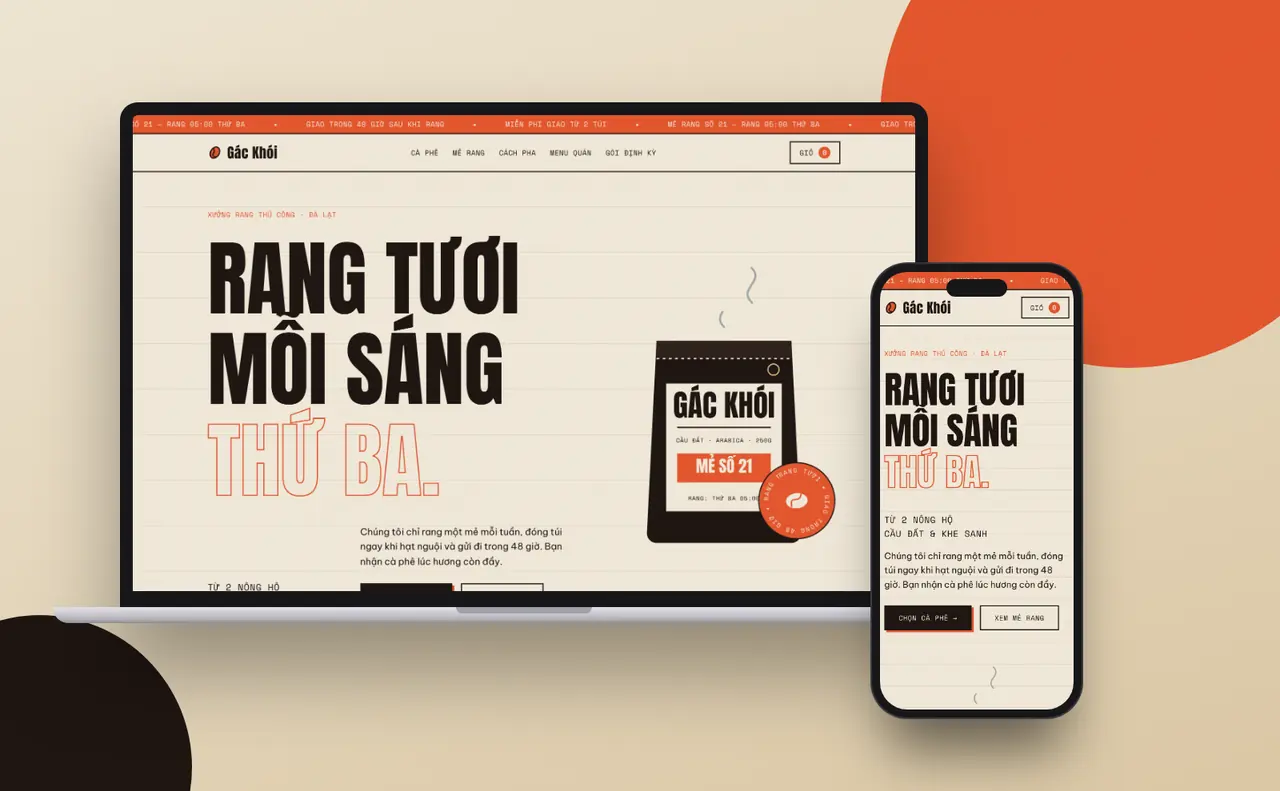
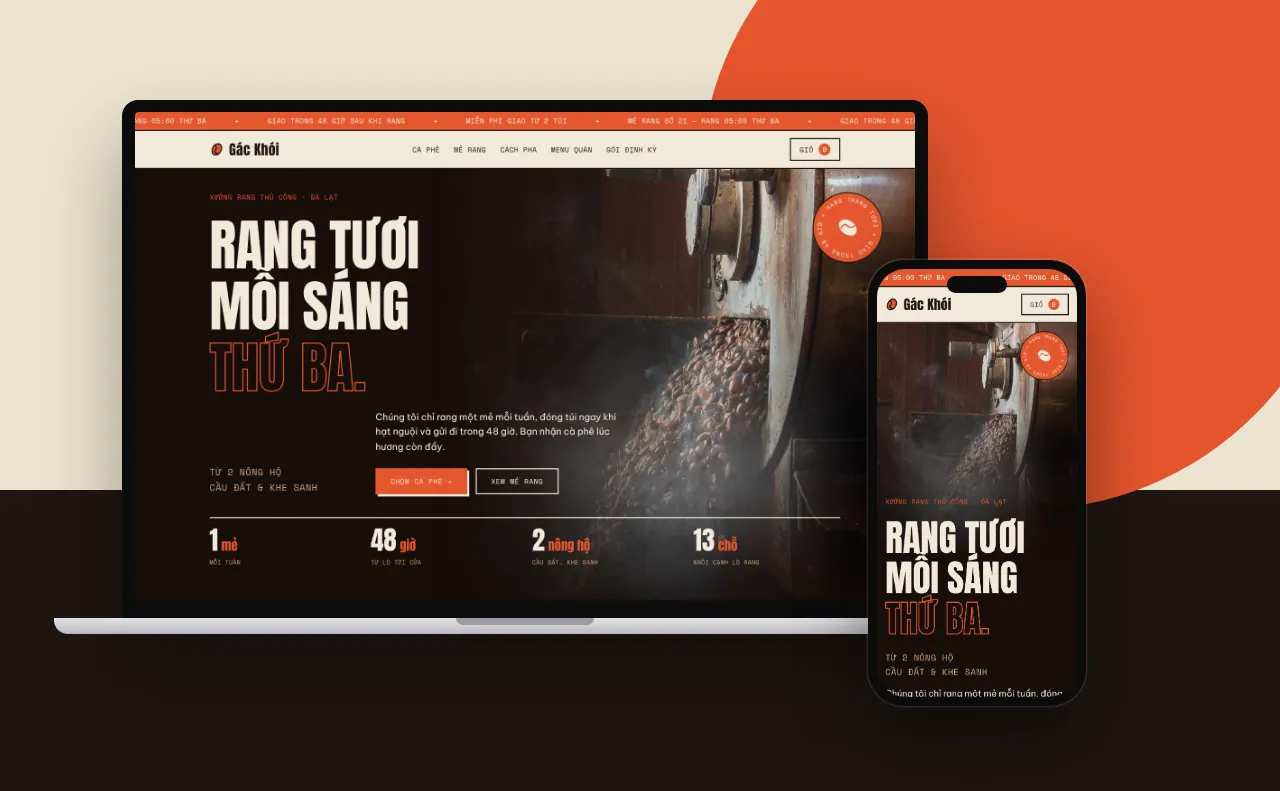
Demo Gác Khói: ảnh xưởng rang thật, hero khói, cảnh ghim một mẻ rang với đường cong nhiệt, lookbook quanh lò
Claude-Session: https://claude.ai/code/session_012QLWn7rvRysGvRwdv6upwG

diff --git a/demos/gac-khoi.html b/demos/gac-khoi.html
@@ -48,27 +48,43 @@ nav{display:flex;gap:26px}nav a{position:relative;padding:10px 0}nav a::after{co
 .back{position:fixed;left:16px;bottom:16px;z-index:40;background:var(--paper);border:2px solid var(--ink);padding:0 16px;min-height:42px;display:flex;align-items:center;gap:8px;box-shadow:3px 3px 0 var(--ink)}
 @media(max-width:860px){nav{display:none}}
 /* hero */
-.hero{padding:var(--s6) 0 var(--s5);position:relative;overflow:hidden}
-.hero .g{display:grid;grid-template-columns:1.618fr 1fr;gap:var(--s5);align-items:center}
-.hero h1{font-size:clamp(72px,10.6vw,152px);letter-spacing:-.005em;line-height:1;white-space:nowrap}
+.hero{position:relative;overflow:hidden;background:#170E0B;color:var(--paper);min-height:calc(100svh - 104px);display:flex;flex-direction:column;justify-content:flex-end;border-bottom:2px solid var(--kraft)}
+.hp{position:absolute;inset:0 0 0 38%;overflow:hidden}
+.hpi{position:absolute;inset:-6% -3%}
+.hpi img{width:100%;height:100%;object-fit:cover;object-position:50% 58%}
+.hp::after{content:"";position:absolute;inset:0;background:linear-gradient(90deg,#170E0B 0,rgba(23,14,11,.72) 22%,rgba(23,14,11,0) 58%),linear-gradient(0deg,rgba(23,14,11,.86) 0,rgba(23,14,11,0) 34%)}
+.sk{position:absolute;left:18%;bottom:-30%;width:64%;height:80%;background:radial-gradient(closest-side,rgba(226,232,233,.3),rgba(226,232,233,.1) 55%,transparent);opacity:0;pointer-events:none}
+.sk:nth-of-type(2){left:38%;width:52%;animation-delay:-4.6s;animation-duration:17s}.sk:nth-of-type(3){left:2%;width:58%;animation-delay:-9s;animation-duration:21s}
+.mo .sk{animation:smk 13s linear infinite;will-change:transform,opacity}
+.mo .hpi img{animation:kb 26s ease-in-out infinite alternate}
+.pz .sk,.pz .hpi img{animation-play-state:paused}
+@keyframes smk{0%{transform:translate3d(6%,24%,0) scale(.7);opacity:0}25%{opacity:1}to{transform:translate3d(-10%,-110%,0) scale(1.6);opacity:0}}
+@keyframes kb{from{transform:scale(1.02)}to{transform:scale(1.12) translateY(-2%)}}
+.hc{position:relative;z-index:2;padding-top:var(--s5)}
+.hero h1{font-size:clamp(72px,min(10.6vw,11.4svh),152px);letter-spacing:-.005em;line-height:1;white-space:nowrap}
 .hero h1 span{display:block;overflow:hidden;padding-top:.2em;margin-top:-.1em}
 .hero h1 i{display:block;font-style:normal;animation:up var(--d5) var(--ease) both}
 .hero h1 span:nth-child(2) i{animation-delay:.1s}.hero h1 span:nth-child(3) i{animation-delay:.2s;color:transparent;-webkit-text-stroke:2px var(--ember)}
 @keyframes up{from{transform:translateY(105%)}}
-.hero .sub{display:grid;grid-template-columns:1fr 1.618fr;gap:var(--s4);margin-top:var(--s5);align-items:end;max-width:760px}
-.hero .sub p{font-size:17px}
+.hero .sub{display:grid;grid-template-columns:1fr 1.618fr;gap:var(--s4);margin-top:var(--s4);align-items:end;max-width:760px}
+.hero .sub p{font-size:17px}.hero .sub .m{color:var(--kraft)}
 .cta{display:flex;flex-wrap:wrap;gap:16px;margin-top:var(--s4)}
-.bagbox{position:relative;justify-self:center;width:min(100%,380px)}
-.smoke path{fill:none;stroke:var(--smoke);stroke-width:3;stroke-linecap:round;stroke-dasharray:60 240;animation:sm 4.24s linear infinite;opacity:.7}
-.smoke path:nth-child(2){animation-delay:-1.6s;stroke-dasharray:40 260}.smoke path:nth-child(3){animation-delay:-2.6s}
-@keyframes sm{from{stroke-dashoffset:300}to{stroke-dashoffset:0}}
-.stamp{position:absolute;right:-16px;bottom:26px;width:144px;height:144px;animation:rot 16.18s linear infinite}
+.hero .btn{background:var(--ember);border-color:var(--ember);box-shadow:4px 4px 0 var(--paper)}.hero .btn:hover{box-shadow:6px 6px 0 var(--paper)}
+.hero .btn.o{background:transparent;border-color:var(--paper);color:var(--paper);box-shadow:none}.hero .btn.o:hover{background:var(--paper);color:var(--ink)}
+.hst{display:grid;grid-template-columns:repeat(4,1fr);gap:var(--s4);margin-top:var(--s5);position:relative;padding:16px 0 64px}.emb .hst{padding-bottom:20px}
+.hst::before{content:"";position:absolute;inset:0 0 auto;height:2px;background:var(--paper);transform-origin:left}
+.js .hst::before{transform:scaleX(0);transition:transform 1.6s var(--ease) .3s}.js .hst.in::before{transform:none}
+.hst b{display:block;font-family:var(--fd);font-weight:400;font-size:clamp(33px,3.4vw,48px);line-height:1.1}.hst b small{font-size:.5em;margin-left:6px;color:var(--ember)}
+.hst .m{font-size:11px;color:var(--kraft)}
+.stamp{position:absolute;z-index:2;right:max(16px,4vw);top:var(--s5);width:132px;height:132px;animation:rot 16.18s linear infinite}
 .stamp text{font-family:var(--fm);font-size:11.5px;letter-spacing:.14em;fill:var(--paper)}
 @keyframes rot{to{transform:rotate(360deg)}}
+@media(max-width:860px){.hero{display:block}.hp{position:relative;inset:auto;height:54svh}.hpi img{object-position:50% 62%}
+ .hp::after{background:linear-gradient(0deg,#170E0B 0,rgba(23,14,11,.55) 30%,rgba(23,14,11,0) 62%)}
+ .hc{margin-top:-118px;padding-top:0}.hero .sub{grid-template-columns:1fr;gap:var(--s3)}.hst{grid-template-columns:1fr 1fr;gap:16px 26px}.stamp{width:96px;height:96px;top:16px}}
 .orig{border-block:2px solid var(--ink);overflow:hidden;white-space:nowrap;background:var(--ink);color:var(--paper)}
 .orig div{display:inline-block;font-family:var(--fd);font-size:clamp(33px,5vw,68px);text-transform:uppercase;padding:10px 0;animation:mq 42s linear infinite reverse}
 .orig span{margin:0 26px}.orig span:nth-child(even){color:transparent;-webkit-text-stroke:1.5px var(--kraft)}
-@media(max-width:860px){.hero{padding-top:var(--s5)}.hero .g{grid-template-columns:1fr}.hero .sub{grid-template-columns:1fr;gap:var(--s3)}.bagbox{width:68%;margin-top:var(--s4)}.stamp{width:110px;height:110px;right:-26px}}
 /* tiêu đề mục */
 .sec{padding:var(--s7) 0}
 .sh{display:grid;grid-template-columns:1.618fr 1fr;gap:var(--s5);align-items:end;margin-bottom:var(--s6)}
@@ -144,6 +160,59 @@ nav{display:flex;gap:26px}nav a{position:relative;padding:10px 0}nav a::after{co
 .fld:focus{outline:3px solid var(--ember);outline-offset:2px}
 .msg{font-size:13px;margin-top:10px;min-height:1.6em}
 @media(max-width:860px){.sub2{grid-template-columns:1fr}.sub2 .r{border-left:0;border-top:2px solid var(--ink)}.sub2>*{padding:var(--s4)}}
+/* một mẻ rang */
+.bat{background:var(--ink);color:var(--paper);scroll-margin-top:70px}
+.bs{position:relative;padding:var(--s6) max(16px,4vw) var(--s4)}
+.bh{display:flex;justify-content:space-between;gap:16px;color:var(--kraft);margin-bottom:var(--s4)}
+.st{display:grid;grid-template-columns:1.2fr 1fr;gap:var(--s5);align-items:center;margin-bottom:var(--s5)}
+.st figure{margin:0;position:relative;overflow:hidden;aspect-ratio:4/3;border:2px solid var(--paper)}
+.st img{width:100%;height:100%;object-fit:cover}
+.sx .m{color:var(--kraft);margin-bottom:10px}
+.k{display:block;font-family:var(--fd);font-weight:400;font-size:clamp(56px,min(8.4vw,15svh),128px);line-height:1.08;text-transform:uppercase;color:var(--ember);white-space:nowrap}.k i{display:block;font-style:normal}
+.st h3{font-size:clamp(24px,2.6vw,42px);margin:16px 0 10px}
+.sx p:last-child{color:rgba(241,233,218,.8);max-width:44ch}
+.cvw{position:relative;max-width:560px;margin-left:auto;color:rgba(241,233,218,.24)}
+.cvw svg{display:block;width:100%;height:auto;overflow:visible}
+.cvl{position:absolute;inset:0;color:var(--ember)}
+.cvw text{font-family:var(--fm);font-size:13px;letter-spacing:.06em;fill:var(--paper)}
+.cvw line{stroke:rgba(241,233,218,.3);stroke-dasharray:3 6}
+.cvd{display:none;position:absolute;left:-7px;top:-7px;width:14px;height:14px;border-radius:50%;background:var(--paper);border:3px solid var(--ember)}
+.mo .bat{height:calc(340svh - 70px)}
+.mo .bs{position:sticky;top:70px;height:calc(100svh - 70px);padding:0;overflow:hidden}
+.mo .bh,.mo .sx,.mo .cvw{position:absolute;left:calc(56% + var(--s5));right:max(16px,4vw);margin:0}
+.mo .bh{top:var(--s4);z-index:3}
+.mo .st{position:absolute;inset:0;margin:0;display:block}
+.mo .st figure{position:absolute;inset:0 44% 0 0;aspect-ratio:auto;border:0;border-right:2px solid var(--paper);will-change:clip-path}
+.mo .st img{will-change:transform}
+.mo .sx{top:46%;transform:translateY(-58%)}
+.mo .sx>*{opacity:0;transform:translateY(22px);transition:opacity .4s var(--ease),transform .7s var(--ease)}
+.mo .on .sx>*{opacity:1;transform:none;transition-delay:.18s}.mo .on .sx>h3{transition-delay:.26s}.mo .on .sx>p:last-child{transition-delay:.34s}
+.mo .sx>.k{opacity:1;transform:none;overflow:hidden;padding-top:.2em;margin-top:-.2em}.mo .k i{transform:translateY(130%);transition:transform .8s var(--ease)}.mo .on .k i{transform:none;transition-delay:.14s}
+.mo .cvw{bottom:var(--s4);max-width:none;z-index:4}.mo .cvw svg{height:clamp(84px,22svh,190px)}.mo .cvl{clip-path:inset(0 100% 0 0);will-change:clip-path}.mo .cvd{display:block}
+.mo .cvw line~g{opacity:.3;transition:opacity var(--d3)}.mo .cvw g.on{opacity:1}
+@media(max-width:860px){.st{grid-template-columns:1fr;gap:var(--s3)}
+ .mo .st figure{inset:0 0 60% 0;border-right:0;border-bottom:2px solid var(--paper)}
+ .mo .bh,.mo .sx,.mo .cvw{left:16px;right:16px}.mo .bh{top:calc(40% + 14px)}.mo .sx{top:calc(40% + 48px);transform:none}
+ .mo .st h3{margin:10px 0 6px}.mo .sx p:last-child{font-size:15px;line-height:1.5}
+ .mo .cvw{bottom:68px}.emb.mo .cvw{bottom:20px}.mo .cvw svg{height:60px}.mo .cvw text,.mo .cvw line{display:none}}
+@media(max-width:860px) and (max-height:700px){.mo .sx h3{display:none}}
+/* một vòng quanh lò */
+.lb{overflow:hidden}
+.lt{display:flex;gap:26px;align-items:flex-start;overflow-x:auto;padding:10px max(16px,4vw) 26px;scrollbar-width:none;-webkit-user-select:none;user-select:none}
+.lt::-webkit-scrollbar{display:none}.lt::after{content:"";flex:0 0 1px}
+.lc{flex:0 0 clamp(250px,27vw,380px);margin:0}.lc:nth-child(even){margin-top:42px}.lc.wd{flex-basis:clamp(300px,44vw,640px)}
+.mo .lc{transform:skewX(var(--sk,0deg))}
+.li{position:relative;height:clamp(340px,56vh,520px);overflow:hidden;border:2px solid var(--ink);background:var(--ink);box-shadow:6px 6px 0 var(--ink);transition:transform var(--d4) var(--ease)}
+.li img{width:116%;max-width:none;height:100%;object-fit:cover;margin-left:-8%;pointer-events:none}
+.li::after{content:"";position:absolute;inset:0;background:var(--ink);opacity:.3;transition:opacity var(--d4) var(--ease)}
+.lc:hover .li::after,.lc:active .li::after{opacity:0}.lc:hover .li{transform:translate(-3px,-3px)}.lc:active .li{transform:scale(.985)}
+.lc figcaption{display:flex;gap:10px;margin-top:16px;text-transform:none;letter-spacing:.02em}.lc figcaption b{color:var(--ember);font-weight:400}
+.lp{height:2px;background:var(--line);margin-top:10px}.lp i{display:block;height:100%;background:var(--ember);transform-origin:left;transform:scaleX(.08)}
+.lcur{position:fixed;left:-42px;top:-42px;z-index:30;width:84px;height:84px;pointer-events:none}
+.lcur span{display:grid;place-items:center;width:100%;height:100%;border-radius:50%;background:var(--ember);color:var(--paper);border:2px solid var(--ink);transform:scale(0);transition:transform var(--d3) var(--ease)}.lcur.on span{transform:none}.lcur.dg span{transform:scale(.7)}
+@media(hover:hover) and (pointer:fine){.mo .lt{cursor:grab}.mo .lt.dg{cursor:grabbing}}
+@media(hover:none){.lt{scroll-snap-type:x mandatory;gap:16px}.lc{scroll-snap-align:center;flex-basis:74vw}.lc.wd{flex-basis:86vw}.lc:nth-child(even){margin-top:26px}.li{height:min(100vw,54svh)}.lcur{display:none}}
+@supports selector(:has(a)){.js .sh .m::before{transform:scaleX(0);transform-origin:left;transition:transform var(--d5) var(--ease) .25s}.js .sh:has(.in) .m::before{transform:none}}
 footer{padding:var(--s6) 0 var(--s7)}
 .fg{display:grid;grid-template-columns:1.618fr 1fr 1fr;gap:var(--s5)}
 .fg .big{font-family:var(--fd);font-size:clamp(68px,12vw,178px);line-height:1.1;text-transform:uppercase}
@@ -153,7 +222,7 @@ footer{padding:var(--s6) 0 var(--s7)}
 .toast{position:fixed;right:16px;bottom:16px;z-index:50;background:var(--ink);color:var(--paper);padding:16px 26px;border:2px solid var(--paper);transform:translateY(180%);visibility:hidden;transition:transform var(--d3) var(--ease),visibility 0s var(--d3)}
 .toast.on{transform:none;visibility:visible;transition-delay:0s}
 .emb .back{display:none}
-@media(prefers-reduced-motion:reduce){*,*::before,*::after{animation:none!important;transition-duration:.01ms!important}.js [data-r]{opacity:1;transform:none}}
+@media(prefers-reduced-motion:reduce){*,*::before,*::after{animation:none!important;transition-duration:.01ms!important}.js [data-r]{opacity:1;transform:none}.js .hst::before,.js .sh .m::before{transform:none}}
 </style>
 </head>
 <body>
@@ -165,39 +234,39 @@ footer{padding:var(--s6) 0 var(--s7)}
 </div></header>
 
 <main id="top">
-<section class="hero"><div class="w"><div class="g">
- <div>
+<section class="hero" id="hero">
+ <div class="hp"><div class="hpi"><img src="../img/photo/ca-phe-31890552.webp" width="1600" height="2400" alt="Hạt cà phê vừa rang đổ ra khỏi lồng rang giữa làn khói mỏng" fetchpriority="high" decoding="async"></div><i class="sk"></i><i class="sk"></i><i class="sk"></i></div>
+ <svg class="stamp" viewBox="0 0 144 144" aria-hidden="true"><circle cx="72" cy="72" r="70" fill="#E4572E" stroke="#1F1612" stroke-width="2"/><path id="cp" d="M72 72m-52 0a52 52 0 1 1 104 0a52 52 0 1 1-104 0" fill="none"/><text><textPath href="#cp">RANG TƯƠI ✦ GIAO TRONG 48 GIỜ ✦ RANG TƯƠI ✦ ĐÓNG TÚI TAY ✦</textPath></text><ellipse cx="72" cy="72" rx="14" ry="20" transform="rotate(30 72 72)" fill="#F1E9DA"/><path d="M66 58c8 6 5 12 2 16s-2 8 8 12" fill="none" stroke="#E4572E" stroke-width="2.5"/></svg>
+ <div class="w hc">
   <p class="m" style="margin-bottom:16px;color:var(--ember)">Xưởng rang thủ công · Đà Lạt</p>
   <h1><span><i>Rang tươi</i></span><span><i>mỗi sáng</i></span><span><i>thứ Ba.</i></span></h1>
   <div class="sub">
    <p class="m">Từ 2 nông hộ<br>Cầu Đất &amp; Khe Sanh</p>
    <div><p>Chúng tôi chỉ rang một mẻ mỗi tuần, đóng túi ngay khi hạt nguội và gửi đi trong 48 giờ. Bạn nhận cà phê lúc hương còn đầy.</p>
-   <div class="cta"><a class="btn" href="#ca-phe">Chọn cà phê →</a><a class="btn o" href="#me-rang">Xem mẻ rang</a></div></div>
+   <div class="cta"><a class="btn" href="#ca-phe">Chọn cà phê →</a><a class="btn o" href="#me">Xem mẻ rang</a></div></div>
   </div>
+  <div class="hst" data-r><div><b><span data-n="1">1</span><small>mẻ</small></b><span class="m">Mỗi tuần</span></div><div><b><span data-n="48">48</span><small>giờ</small></b><span class="m">Từ lò tới cửa</span></div><div><b><span data-n="2">2</span><small>nông hộ</small></b><span class="m">Cầu Đất, Khe Sanh</span></div><div><b><span data-n="13">13</span><small>chỗ</small></b><span class="m">Ngồi cạnh lò rang</span></div></div>
  </div>
- <div class="bagbox">
-  <svg viewBox="0 0 300 420" aria-label="Túi cà phê Gác Khói">
-   <g class="smoke"><path d="M110 70c-20-20 20-30 0-50s20-30 0-50" transform="translate(0 30)"/><path d="M150 70c-20-20 20-30 0-50s20-30 0-50" transform="translate(0 20)"/><path d="M190 70c-20-20 20-30 0-50s20-30 0-50" transform="translate(0 34)"/></g>
-   <path d="M52 110h196l14 280a14 14 0 0 1-14 14H52a14 14 0 0 1-14-14z" fill="#1F1612"/>
-   <path d="M52 110h196v26H52z" fill="#2e221c"/><path d="M52 136h196" stroke="#F1E9DA" stroke-width="2" stroke-dasharray="4 5"/>
-   <rect x="66" y="172" width="168" height="186" fill="#F1E9DA"/>
-   <text x="150" y="222" text-anchor="middle" font-family="Anton,Impact" font-size="44" fill="#1F1612">GÁC KHÓI</text>
-   <path d="M82 236h136" stroke="#1F1612" stroke-width="2"/>
-   <text x="150" y="258" text-anchor="middle" font-family="Space Mono,monospace" font-size="8.5" letter-spacing=".6" fill="#1F1612">CẦU ĐẤT · ARABICA · 250G</text>
-   <rect x="82" y="274" width="136" height="42" fill="#E4572E"/>
-   <text x="150" y="302" text-anchor="middle" font-family="Anton,Impact" font-size="24" fill="#F1E9DA">MẺ SỐ 21</text>
-   <text x="150" y="342" text-anchor="middle" font-family="Space Mono,monospace" font-size="8.5" letter-spacing=".6" fill="#1F1612">RANG: THỨ BA 05:00</text>
-   <circle cx="222" cy="152" r="8" fill="none" stroke="#C9A27A" stroke-width="2"/>
-  </svg>
-  <svg class="stamp" viewBox="0 0 144 144" aria-hidden="true"><circle cx="72" cy="72" r="70" fill="#E4572E" stroke="#1F1612" stroke-width="2"/><path id="cp" d="M72 72m-52 0a52 52 0 1 1 104 0a52 52 0 1 1-104 0" fill="none"/><text><textPath href="#cp">RANG TƯƠI ✦ GIAO TRONG 48 GIỜ ✦ RANG TƯƠI ✦ ĐÓNG TÚI TAY ✦</textPath></text><ellipse cx="72" cy="72" rx="14" ry="20" transform="rotate(30 72 72)" fill="#F1E9DA"/><path d="M66 58c8 6 5 12 2 16s-2 8 8 12" fill="none" stroke="#E4572E" stroke-width="2.5"/></svg>
- </div>
-</div></div></section>
+</section>
 
 <div class="orig" aria-hidden="true"><div><span>Cầu Đất</span><span>Khe Sanh</span><span>Đắk Mil</span><span>Sơn La</span><span>Cầu Đất</span><span>Khe Sanh</span><span>Đắk Mil</span><span>Sơn La</span><span>Cầu Đất</span><span>Khe Sanh</span><span>Đắk Mil</span><span>Sơn La</span><span>Cầu Đất</span><span>Khe Sanh</span><span>Đắk Mil</span><span>Sơn La</span></div></div>
 
 <section class="sec" id="ca-phe"><div class="w">
  <div class="sh"><div><p class="m">Mẻ rang tuần này</p><h2 data-r>Bốn túi.<br><em>Không hơn.</em></h2></div><p data-r>Ít lựa chọn để mỗi túi đều được nếm thử, chỉnh lửa và rang lại cho tới khi đúng vị. Giá cho túi 250g, xay theo cách pha của bạn.</p></div>
  <div class="grid" id="grid"></div>
+</div></section>
+
+<section class="bat" id="me" aria-label="Một mẻ rang"><div class="bs">
+  <div class="bh m"><span>Một mẻ rang · sáng thứ Ba</span><span><b id="bn" style="color:var(--paper)">01</b> / 04</span></div>
+  <article class="st on"><figure><img src="../img/photo/ca-phe-6280317.webp" width="1100" height="1670" alt="Phễu đầy hạt cà phê nhân xanh phía trên lò rang, người thợ cúi xuống khay hạt" loading="lazy" decoding="async"></figure><div class="sx"><p class="m">01 · Nạp hạt</p><b class="k"><i>05:00</i></b><h3>Lò nóng từ lúc trời còn sương</h3><p>Hạt nhân xanh từ hai nông hộ Cầu Đất và Khe Sanh được cân rồi đổ vào lồng rang. Mỗi tuần chỉ một mẻ.</p></div></article>
+  <article class="st"><figure><img src="../img/photo/ca-phe-31890546.webp" width="1100" height="1650" alt="Cận cảnh đồng hồ nhiệt trên thân lò rang bằng thép đã ngả màu" loading="lazy" decoding="async"></figure><div class="sx"><p class="m">02 · Giữ lửa</p><b class="k"><i>Nổ lần 1</i></b><h3>Nghe hạt, nhìn kim nhiệt</h3><p>Nhiệt độ được ghi lại từng giây. Tiếng nổ đầu tiên báo hạt bắt đầu chín, từ đây người rang quyết định xả sớm hay kéo dài thêm.</p></div></article>
+  <article class="st"><figure><img src="../img/photo/ca-phe-31890551.webp" width="1100" height="1650" alt="Hạt cà phê đổ từ lồng rang xuống khay trong làn khói trắng dày" loading="lazy" decoding="async"><i class="sk"></i></figure><div class="sx"><p class="m">03 · Xả lò</p><b class="k"><i>226°C</i></b><h3>Mở cửa lò đúng giây</h3><p>Rang sáng xả ở 205°C sau 9 phút 20. Rang đậm đi tới 226°C, gần tiếng nổ thứ hai. Cửa lò mở, hạt đổ ra cùng làn khói.</p></div></article>
+  <article class="st"><figure><img src="../img/photo/ca-phe-37540260.webp" width="1100" height="1650" alt="Hạt cà phê vừa rang được cánh gạt đảo đều trên khay làm nguội" loading="lazy" decoding="async"></figure><div class="sx"><p class="m">04 · Làm nguội</p><b class="k"><i>48 giờ</i></b><h3>Nguội là đóng túi</h3><p>Hạt được đảo đều trên khay cho nguội nhanh, đóng túi ngay và gửi đi trong 48 giờ. Bạn nhận cà phê lúc hương còn đầy.</p></div></article>
+  <div class="cvw" aria-hidden="true">
+   <svg viewBox="0 0 520 190"><g id="hcv" fill="none" stroke="currentColor" stroke-width="3" stroke-linecap="round"><path vector-effect="non-scaling-stroke" d="M12 84C40 160,72 172,112 152S222 96,300 74S400 44,440 34"/><path vector-effect="non-scaling-stroke" d="M440 34C468 60,490 110,508 150" stroke-dasharray="2 8"/></g><line x1="300" y1="14" x2="300" y2="176"/>
+    <g><text x="12" y="62">NẠP HẠT</text></g><g><text x="308" y="26">NỔ LẦN 1</text></g><g><text x="424" y="18">XẢ</text></g><g><text x="444" y="178">NGUỘI</text></g></svg>
+   <svg class="cvl" viewBox="0 0 520 190"><use href="#hcv"/></svg><i class="cvd"></i>
+  </div>
 </div></section>
 
 <section class="sec roast" id="me-rang"><div class="w">
@@ -235,6 +304,20 @@ footer{padding:var(--s6) 0 var(--s7)}
   </div>
  </div>
 </div></section>
+
+<section class="sec lb" id="xuong"><div class="w">
+ <div class="sh"><div><p class="m">Trong xưởng</p><h2 data-r>Một vòng<br><em>quanh lò.</em></h2></div><p data-r>Gác nhỏ, một chiếc lò, vài chiếc khay và mùi khói bám trên áo. Kéo ngang để dạo một vòng.</p></div>
+</div>
+ <div class="lt" id="lt" tabindex="0" role="group" aria-label="Ảnh trong xưởng rang, cuộn ngang để xem">
+  <figure class="lc"><div class="li"><img src="../img/photo/ca-phe-22679455.webp" width="760" height="1138" alt="Hai bàn tay nâng một nắm hạt cà phê vừa rang phía trên khay nguội" loading="lazy" decoding="async" draggable="false"></div><figcaption class="m"><b>01</b>Nâng hạt lên xem màu</figcaption></figure>
+  <figure class="lc wd"><div class="li"><img src="../img/photo/ca-phe-6079719.webp" width="900" height="578" alt="Hạt cà phê rang nằm trên khay làm nguội bằng thép sáng" loading="lazy" decoding="async" draggable="false"></div><figcaption class="m"><b>02</b>Khay nguội quay đều</figcaption></figure>
+  <figure class="lc"><div class="li"><img src="../img/photo/ca-phe-31890545.webp" width="760" height="1140" alt="Lồng rang nhìn từ trên xuống, hạt cà phê đổ đầy khay bên dưới" loading="lazy" decoding="async" draggable="false"></div><figcaption class="m"><b>03</b>Lồng rang nhìn từ trên</figcaption></figure>
+  <figure class="lc"><div class="li"><img src="../img/photo/ca-phe-35283349.webp" width="760" height="1014" alt="Bàn tay cầm nắm hạt cà phê rang cạnh muỗng lấy mẫu" loading="lazy" decoding="async" draggable="false"></div><figcaption class="m"><b>04</b>Thử từng nắm hạt</figcaption></figure>
+  <figure class="lc"><div class="li"><img src="../img/photo/ca-phe-6280315.webp" width="760" height="1140" alt="Bàn tay rút que lấy mẫu trên lò rang trong ánh sáng tối" loading="lazy" decoding="async" draggable="false"></div><figcaption class="m"><b>05</b>Rút mẫu giữa mẻ</figcaption></figure>
+ </div>
+ <div class="w"><div class="lp"><i id="lpi"></i></div></div>
+ <div class="lcur m" aria-hidden="true"><span>Kéo</span></div>
+</section>
 
 <section class="sec menu" id="menu"><div class="w">
  <div class="sh"><div><p class="m">Uống tại gác</p><h2 data-r>Menu<br><em>quán nhỏ.</em></h2></div><p data-r>Quán chỉ có 13 chỗ ngồi cạnh lò rang. Mở cửa 7:00–17:00, nghỉ thứ Hai.</p></div>
@@ -277,7 +360,7 @@ footer{padding:var(--s6) 0 var(--s7)}
   <div><h4>Ghé xưởng</h4><p>Gác 2, số 13 Dốc Sương<br>Đà Lạt, Lâm Đồng<br>7:00–17:00 · nghỉ thứ Hai</p></div>
   <div><h4>Liên hệ</h4><p>hello@gackhoi.example<br>0900 000 000</p></div>
  </div>
- <div class="cpt"><span>Gác Khói là thương hiệu concept. Website mẫu do <a href="../index.html" target="_top" style="text-decoration:underline">Dream Labs</a> thiết kế, mọi thông tin chỉ để minh họa.</span><span class="m">© 2026</span></div>
+ <div class="cpt"><span>Gác Khói là thương hiệu concept. Website mẫu do <a href="../index.html" target="_top" style="text-decoration:underline">Dream Labs</a> thiết kế, mọi thông tin chỉ để minh họa, ảnh chụp lấy từ thư viện Pexels để minh họa không khí.</span><span class="m">© 2026</span></div>
 </div></footer>
 <a class="back m" href="../index.html">← Dream Labs</a>
 <div class="toast m" id="toast" role="status"></div>
@@ -315,6 +398,41 @@ $('#sf').addEventListener('submit',e=>{e.preventDefault();const ok=$$('.fld').ev
 /* reveal */
 const els=$$('[data-r]');
 if('IntersectionObserver' in window){const io=new IntersectionObserver(es=>es.forEach(e=>{if(e.isIntersecting){e.target.classList.add('in');io.unobserve(e.target);if(e.target.classList.contains('chart'))setR(0)}}),{threshold:.12,rootMargin:'0px 0px -6% 0px'});els.forEach(el=>io.observe(el))}else{els.forEach(el=>el.classList.add('in'));setR(0)}
+/* chuyển động */
+const H=document.documentElement,mo=!matchMedia('(prefers-reduced-motion:reduce)').matches,cl=(v,a=0,b=1)=>v<a?a:v>b?b:v,eo=t=>1-(1-t)**4;
+if(mo&&'IntersectionObserver' in window){H.classList.add('mo');
+ const hero=$('#hero'),hpi=$('.hpi'),bat=$('#me'),bs=$('.bs'),sts=$$('.st'),figs=sts.map(e=>$('figure',e)),ims=sts.map(e=>$('img',e)),cvw=$('.cvw'),cvl=$('.cvl'),dot=$('.cvd'),mks=$$('.cvw line~g'),pts=[];
+ let vh=1,vb=0,raf=0,sy=scrollY,mx=0,my=0,tx=0,ty=0,p=-1,act=-1,tot=1,cs=1,cz=1,cx=0,cy=0,cw=1;
+ $$('#hcv path').forEach(a=>{const L=a.getTotalLength();for(let i=0;i<61;i++){const q=a.getPointAtLength(L*i/60);pts.push([q.x,q.y])}});
+ const U=[1,pts.findIndex(q=>q[0]>=300),60,121];
+ const ms=()=>{tot=Math.max(1,bat.offsetHeight-bs.offsetHeight);cw=cvw.clientWidth;const h=cvw.clientHeight,n=innerWidth<861;$$('svg',cvw).forEach(e=>e.setAttribute('preserveAspectRatio',n?'none':'xMidYMid'));cs=n?cw/520:Math.min(cw/520,h/190);cz=n?h/190:cs;cx=(cw-520*cs)/2;cy=(h-190*cz)/2;p=-1;req()};
+ const tick=()=>{raf=0;let go=0;
+  if(vh){const y=scrollY;sy+=(y-sy)*.14;tx+=(mx-tx)*.07;ty+=(my-ty)*.07;hpi.style.transform=`translate3d(${-tx*18}px,${sy*.16-ty*12}px,0)`;if(Math.abs(y-sy)>.3||Math.abs(mx-tx)+Math.abs(my-ty)>.002)go=1}
+  if(vb){const g=cl((70-bat.getBoundingClientRect().top)/tot);if(p<0)p=g;p+=(g-p)*.16;if(Math.abs(g-p)>4e-4)go=1;else p=g;
+   const t=cl(p*3.4,0,3);
+   for(let i=0;i<4;i++){const w=i?eo(cl((t-i+.62)/.5)):1,r=(1-w)*100;if(i)figs[i].style.clipPath=i==2?`inset(0 ${r}% 0 0)`:`inset(${r}% 0 0 0)`;ims[i].style.transform=`scale(${1.16-.12*w+cl(t-i,0,1.2)*.05})`}
+   const a=cl(Math.floor(t+.5),0,3);if(a!==act){act=a;sts.forEach((e,i)=>e.classList.toggle('on',i===a));mks.forEach((e,i)=>e.classList.toggle('on',i<=a));$('#bn').textContent='0'+(a+1)}
+   const j=Math.min(2,Math.floor(t)),u=U[j]+(U[j+1]-U[j])*(t-j),i0=Math.min(120,Math.floor(u)),q0=pts[i0],q1=pts[i0+1],f=u-i0,x=cx+(q0[0]+(q1[0]-q0[0])*f)*cs,yy=cy+(q0[1]+(q1[1]-q0[1])*f)*cz;
+   cvl.style.clipPath=`inset(0 ${100-x/cw*100}% 0 0)`;dot.style.transform=`translate3d(${x}px,${yy}px,0)`}
+  if(go)req()};
+ const req=()=>{if(!raf)raf=requestAnimationFrame(tick)};
+ new IntersectionObserver(es=>es.forEach(e=>{const v=e.isIntersecting;vh=v;hero.classList.toggle('pz',!v);req()})).observe(hero);
+ new IntersectionObserver(es=>es.forEach(e=>{vb=e.isIntersecting;bat.classList.toggle('pz',!vb);req()})).observe(bat);
+ addEventListener('scroll',req,{passive:true});addEventListener('resize',ms);addEventListener('load',ms);ms();
+ if(matchMedia('(hover:hover) and (pointer:fine)').matches)hero.addEventListener('pointermove',e=>{mx=e.clientX/innerWidth-.5;my=e.clientY/innerHeight-.5;req()});
+ /* số đếm */
+ setTimeout(()=>{const t0=performance.now(),ns=$$('.hst [data-n]'),f=n=>{const k=eo(cl((n-t0)/1500));ns.forEach(e=>e.textContent=Math.round(e.dataset.n*k));k<1&&requestAnimationFrame(f)};requestAnimationFrame(f)},500);
+ /* lookbook */
+ const lt=$('#lt'),lis=$$('.li img',lt),lpi=$('#lpi'),lcur=$('.lcur');let lr=0,dg=0,lx=0,vel=0,sk=0;
+ const lpar=()=>{const m=lt.scrollWidth-lt.clientWidth,w=lt.clientWidth;lpi.style.transform=`scaleX(${m>0?cl(lt.scrollLeft/m,.08):1})`;lis.forEach(im=>{const r=im.parentNode.getBoundingClientRect();im.style.transform=`translate3d(${cl((r.left+r.width/2-w/2)/w,-1,1)*-6}%,0,0)`})};
+ const ll=()=>{lr=0;if(!dg){if(Math.abs(vel)>.4){lt.scrollLeft-=vel;vel*=.94}else vel=0}sk+=(cl(vel*.1,-3,3)-sk)*.18;if(Math.abs(sk)<.02&&!vel)sk=0;lt.style.setProperty('--sk',sk.toFixed(2)+'deg');lpar();if(dg||vel||sk)lq()},lq=()=>{if(!lr)lr=requestAnimationFrame(ll)};
+ lt.addEventListener('scroll',lq,{passive:true});addEventListener('resize',lq);lq();
+ if(matchMedia('(hover:hover) and (pointer:fine)').matches){
+  lt.addEventListener('pointerdown',e=>{if(e.button)return;dg=1;lx=e.clientX;vel=0;lt.classList.add('dg');lcur.classList.add('dg');lt.setPointerCapture(e.pointerId)});
+  lt.addEventListener('pointermove',e=>{lcur.style.transform=`translate3d(${e.clientX}px,${e.clientY}px,0)`;lcur.classList.add('on');if(dg){const d=e.clientX-lx;lx=e.clientX;lt.scrollLeft-=d;vel=vel*.4+d*.6;lq()}});
+  const up=()=>{dg=0;lt.classList.remove('dg');lcur.classList.remove('dg');lq()};lt.addEventListener('pointerup',up);lt.addEventListener('pointercancel',up);
+  lt.addEventListener('pointerleave',()=>lcur.classList.remove('on'))}
+}
 try{parent!==window&&parent.postMessage({wkDemo:'gac-khoi'},'*')}catch(e){}
 })();
 </script>
